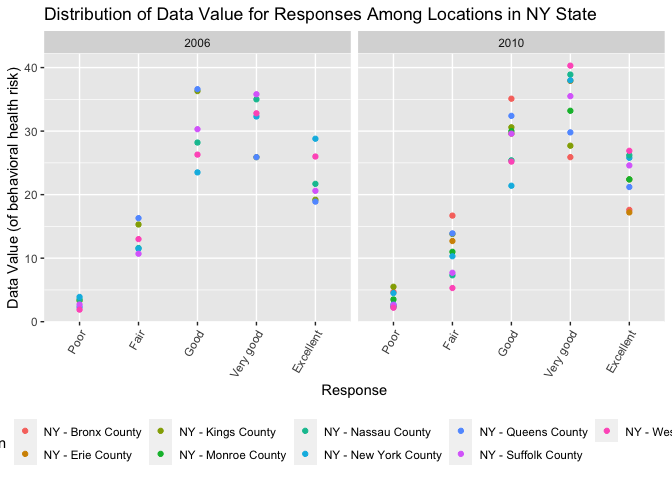
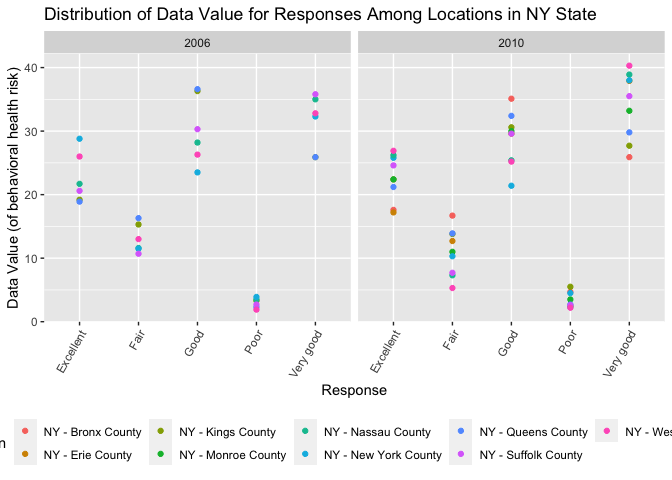
modify

diff --git a/p8105_hw3_rx2236.md b/p8105_hw3_rx2236.md
@@ -166,7 +166,7 @@ brfss_oh =
 Check values of `response`
 
 ``` r
-print(unique(brfss_oh$response))
+print(unique(pull(brfss_oh, response)))
 ```
 
     ## [1] "Excellent" "Very good" "Good"      "Fair"      "Poor"
@@ -179,15 +179,9 @@ brfss_oh =
            response == "Very good" |
            response == "Good" |
            response == "Fair" |
-           response == "Poor")
-
-
-response_vector = pull(brfss_oh, response)
-
-response_factor = factor(response_vector, 
-                         levels = c("Poor", "Fair", "Good", "Very good", "Excellent"),
-                         ordered = TRUE)
-brfss_oh$response = response_factor
+           response == "Poor") |>
+  mutate(response, factor(response, levels = c("Poor", "Fair", "Good", "Very good", "Excellent"),
+                         ordered = TRUE))
 ```
 
 Check which states were observed at 7 or more locations in 2002 and
@@ -326,3 +320,112 @@ NY_response |>
 ![](p8105_hw3_rx2236_files/figure-gfm/unnamed-chunk-15-1.png)<!-- -->
 
 ## Problem 3
+
+First, clean the datasets and merge them into one dataset.
+
+``` r
+demographic_df = read_csv("data/nhanes_covar.csv", skip = 4) |>
+  janitor::clean_names() |>
+  mutate(
+    sex = case_match(
+      sex,
+      1 ~ "male",
+      2 ~ "female")) |>
+  mutate(
+    education = case_match(
+      education,
+      1 ~ "Less than high school",
+      2 ~ "High school equivalent",
+      3 ~ "More than high school"
+    )) |>
+  mutate(education = factor(education, levels = c("Less than high school", "High school equivalent", "More than high school"), ordered = TRUE)) |>
+  drop_na() |>
+  filter(age >= 21)
+```
+
+    ## Rows: 250 Columns: 5
+    ## ── Column specification ────────────────────────────────────────────────────────
+    ## Delimiter: ","
+    ## dbl (5): SEQN, sex, age, BMI, education
+    ## 
+    ## ℹ Use `spec()` to retrieve the full column specification for this data.
+    ## ℹ Specify the column types or set `show_col_types = FALSE` to quiet this message.
+
+``` r
+accel_df = 
+  read_csv("data/nhanes_accel.csv") |>
+  janitor::clean_names() |>
+  drop_na()
+```
+
+    ## Rows: 250 Columns: 1441
+    ## ── Column specification ────────────────────────────────────────────────────────
+    ## Delimiter: ","
+    ## dbl (1441): SEQN, min1, min2, min3, min4, min5, min6, min7, min8, min9, min1...
+    ## 
+    ## ℹ Use `spec()` to retrieve the full column specification for this data.
+    ## ℹ Specify the column types or set `show_col_types = FALSE` to quiet this message.
+
+``` r
+merged_df = left_join(demographic_df, accel_df)
+```
+
+    ## Joining with `by = join_by(seqn)`
+
+``` r
+merged_df2 = merged_df |>
+  pivot_longer(
+    min1:min1440,
+    names_to = "minute",
+    values_to = "mims_value"
+  ) 
+```
+
+Produce a table for the number of men and women in each education
+category.
+
+``` r
+merged_df |> 
+  group_by(sex, education) |> 
+  summarise(n = n()) |>
+  pivot_wider(
+    names_from = sex,
+    values_from = n) |>
+  knitr::kable()
+```
+
+    ## `summarise()` has grouped output by 'sex'. You can override using the `.groups`
+    ## argument.
+
+| education              | female | male |
+|:-----------------------|-------:|-----:|
+| Less than high school  |     28 |   27 |
+| High school equivalent |     23 |   35 |
+| More than high school  |     59 |   56 |
+
+Through the table we can see in “high school equivalent” category the
+number of female is significantly less than male while in the other two
+categories there are slightly more female than male.
+
+Then create a visualization of the age distributions for men and women
+in each education category.
+
+``` r
+merged_df |>
+  select(sex, age, education) |>
+  ggplot(aes(x = sex, y = age, color = education)) + 
+  geom_boxplot() +
+  theme(legend.position = "bottom") +
+  labs(
+    title = "Age Distribution for Men and Women in Each Education Category",
+    x = "Sex",
+    y = "Age",
+    color = "Education"
+  ) 
+```
+
+![](p8105_hw3_rx2236_files/figure-gfm/unnamed-chunk-18-1.png)<!-- -->
+
+Females in “high school equivalent” category tend to have higher age
+than males, while females in “more than high school” tend to have lower
+average age than males.
